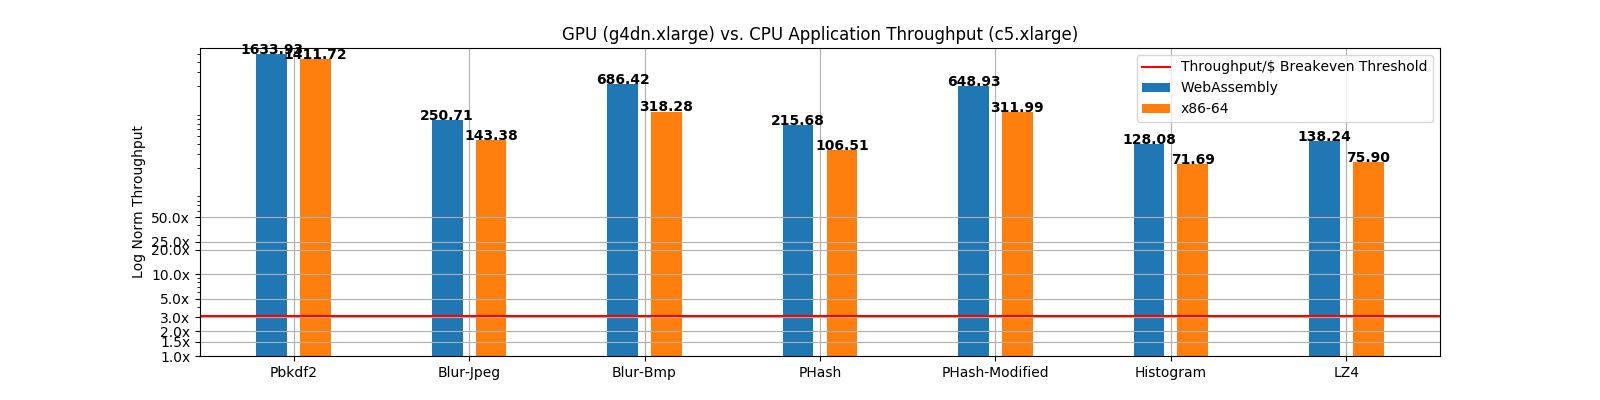
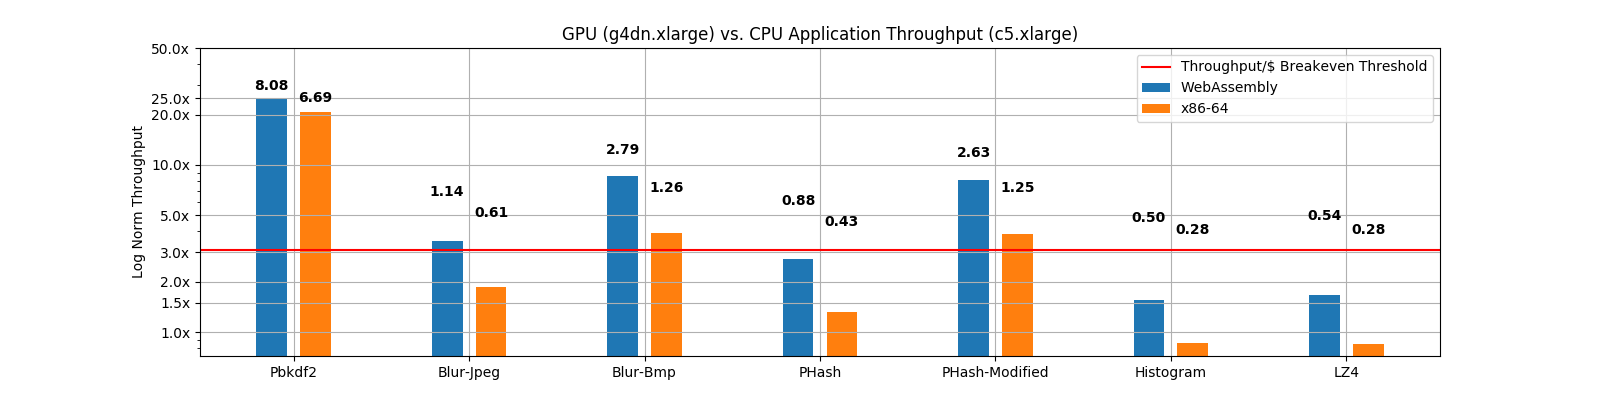
more figure updates

diff --git a/benchmarks/make_figures.py b/benchmarks/make_figures.py
@@ -140,14 +140,15 @@ gpu_rps_device = []
 cpu_wasm_rps_device = []
 cpu_x86_rps_device = []
 for d, v in zip(gpu_list, vmcount):
+    # include buffer time in GPU measurement but not CPU
     new_rps = v / (d['device_time'] / (10 ** 9))
     gpu_rps_device.append(new_rps)
 # Each CPU instance has 4 cores, so can process 4 requests per second
 for d, v in zip(cpu_wasm_list, vmcount):
-    new_rps = 4 / (d['device_time'] / (10 ** 9))
+    new_rps = 4 / ((d['device_time'] - d['buffer_time']) / (10 ** 9))
     cpu_wasm_rps_device.append(new_rps)
 for d, v in zip(cpu_x86_list, vmcount):
-    new_rps = 4 / (d['device_time'] / (10 ** 9))
+    new_rps = 4 / ((d['device_time'] - d['buffer_time']) / (10 ** 9))
     cpu_x86_rps_device.append(new_rps)
 
 plot_bars(gpu_rps_device, cpu_wasm_rps_device, cpu_x86_rps_device, "e2e_device_time_only")
